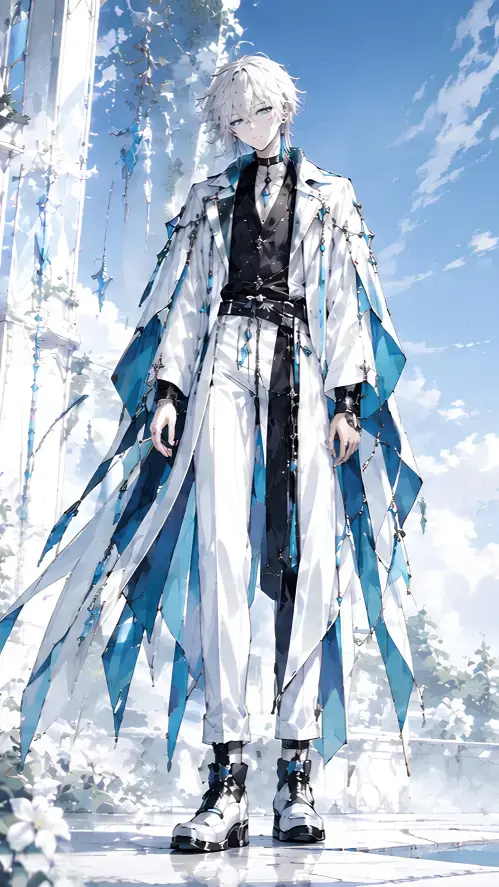
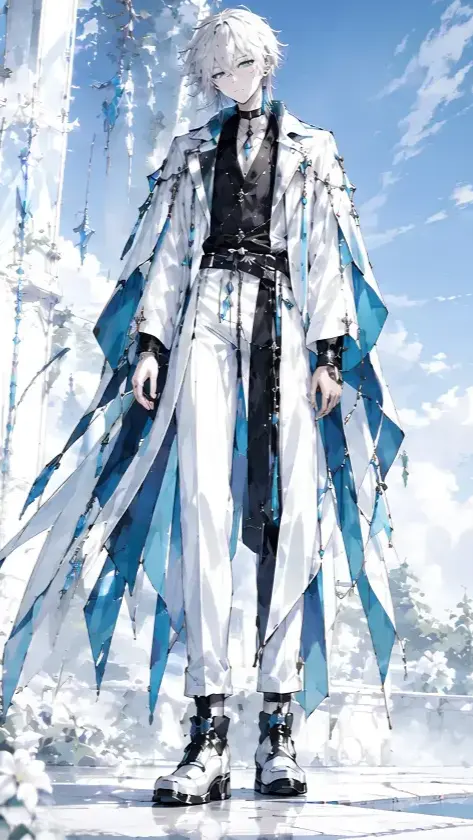
f

diff --git a/src/lib/components/Banner.svelte b/src/lib/components/Banner.svelte
@@ -89,11 +89,11 @@
         margin: auto;
         position: relative;
         width: min(100svw,var(--maxContentWidth));
-        height: 600px;
+        height: 700px;
 
         background-image: url(../../../src/lib/assets/cover0.webp);
         background-size: cover;
-        background-position: center;
+        background-position: center top;
         background-repeat: no-repeat;
     }
 
